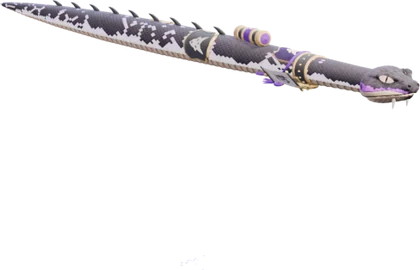
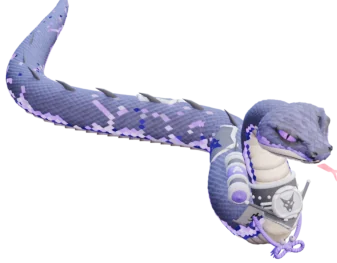
Guide: new pets, the Spirit Armor aura, snakes and dragons that coil
Every new model is in an add-on pack (no new free models):
- Necrotic Bear, Six-Eyed Spider, King Cobra, Stormcrest Hawk and Ninja Kirin:
  each its own pack, pet (shoulder, small, summoned, 20 colours) and mount.
- Spirit Armor, the first aura (new Auras category), close fit and large,
  20 colours, in the Aura Pack.
- The Umbra, Tide and Crimson Clouds move to the Cloud Mounts Pack.

The Chinese Fantasy Dragon (pet and mount) and the Ninja Serpent (pet and
mount) are shown posed from their own moves, coiled instead of a straight rod,
and turn properly. Pictures in each model's home colour.

diff --git a/docs/index.html b/docs/index.html
@@ -380,7 +380,8 @@ details.more[open] > summary::before{ content:"\25BE  "; }
       <div class="card"><h3>Mounts</h3>
         <ul class="plain">
           <li><b>Spirit Colossus</b> <span class="tag-new">new</span>: a giant winged spirit warrior of glowing crystal, sword in hand, as big as the phoenix. It walks on all fours, bounds, flies with the sword out ahead and lands on its feet with a fist slam. With its <b>Bone Form</b> and <b>Armored Form</b>, 10 colours each, in the Flying Mounts Pack.</li>
-          <li><b>Umbra Cloud</b>, <b>Tide Cloud</b> and <b>Crimson Cloud</b> <span class="tag-new">new</span>: three animated clouds to ride, of ink, water and blood. They keep moving, parked or in flight. Free with Dynamic Mounts.</li>
+          <li><b>Umbra Cloud</b>, <b>Tide Cloud</b> and <b>Crimson Cloud</b> <span class="tag-new">new</span>: three animated clouds to ride, of ink, water and blood. They keep moving, parked or in flight. In the Cloud Mounts Pack.</li>
+          <li>Ride your new pets <span class="tag-new">new</span>: the <b>Necrotic Bear</b> gallops and rears up, the <b>Six-Eyed Spider</b> scuttles on eight legs, the <b>King Cobra</b> slithers with you on its head, the <b>Stormcrest Hawk</b> flies, and the <b>Ninja Kirin</b> runs. Summon the pet, press <kbd>J</kbd>.</li>
           <li>New: the <b>Gale Fan</b>, a giant flying war fan, and the <b>Dune Disc</b>, a floating disc of sand. The broomstick, cloud and hoverboard were remade.</li>
           <li>Called flying props land on the ground: the Dune Disc, Cloud, Gale Fan and Broomstick no longer sink into it.</li>
           <li>The horses and the donkey remade: Ironclad Destrier, Elven Palfrey, Wayfarer Courser, Peddler's Donkey.</li>
@@ -393,6 +394,8 @@ details.more[open] > summary::before{ content:"\25BE  "; }
           <li>Your pet and its mount are one animal: <kbd>J</kbd> on your summoned pet, and when you get off it is right there.</li>
           <li><code>/petsummon</code> calls back a pet mount left far away.</li>
           <li>Your summoned pet stays with you, even on a High Jump.</li>
+          <li>New pets <span class="tag-new">new</span>: the <b>Necrotic Bear</b>, <b>Six-Eyed Spider</b>, <b>King Cobra</b>, <b>Stormcrest Hawk</b> and <b>Ninja Kirin</b>, each its own pack with its mount: on your shoulder, small, or summoned at full size, 20 colours.</li>
+          <li><b>Auras</b> <span class="tag-new">new</span>: a new tab in your Regalia. The <b>Spirit Armor</b> rises from the ground around you as a glowing spirit rib cage, close fit or large, 20 colours, and stays with you on a mount (Aura Pack).</li>
           <li>Ten props are free for everyone. Shops show only what is for sale.</li>
           <li><b>Every model</b> <span class="tag-new">new</span>: a picture of every mount and prop, what comes free with the scripts and what is in each add-on pack.</li>
         </ul>
@@ -406,7 +409,7 @@ details.more[open] > summary::before{ content:"\25BE  "; }
       <div class="step"><span class="n">1</span><div><h3>Earn it</h3><p>Buy it at a mount shop (walk up, press <kbd>E</kbd>), use its item, or receive it from an admin. Some mounts are free for all. Its colours come with it, unless you were given only some.</p></div></div>
       <div class="step"><span class="n">2</span><div><h3>Call it</h3><p>Press <kbd>F6</kbd> (<code>/mountvip</code>) for <b>My Mounts</b>: every mount you may ride right now. Pick a colour, then <b>Ride</b>. It comes to you; press <kbd>E</kbd> to get on. <b>Send back</b> puts it away.</p></div></div>
       <div class="step"><span class="n">3</span><div><h3>Keep it</h3><p>A VIP can press <b>Lock</b> in F6 to bind a mount from the bag to the character for good.</p></div></div>
-      <div class="step"><span class="n">4</span><div><h3>Your pet's mount</h3><p>The ninja pets, dragons, gryphon, phoenix, wolf, kitsune and golem are ridden through their pet: summon it, then press <kbd>J</kbd>.</p></div></div>
+      <div class="step"><span class="n">4</span><div><h3>Your pet's mount</h3><p>The ninja pets, dragons, gryphon, phoenix, wolf, kitsune and golem, the Necrotic Bear, Six-Eyed Spider, King Cobra, Stormcrest Hawk and Ninja Kirin are ridden through their pet: summon it, then press <kbd>J</kbd>.</p></div></div>
     </div>
     <div class="tour" data-screens="f6"></div>
   </section>
@@ -433,7 +436,7 @@ details.more[open] > summary::before{ content:"\25BE  "; }
   <section id="pets" class="chapter">
     <h2><span class="num">V</span>Props &amp; pets</h2>
     <div class="steps">
-      <div class="step"><span class="n">1</span><div><h3>Wear props</h3><p><code>/animatedprop</code> opens your <b>Regalia</b>: tails, wings, magic circles, pets and more. Equip, pick a colour, take it off. A worn prop is kept safe while you wear it.</p></div></div>
+      <div class="step"><span class="n">1</span><div><h3>Wear props</h3><p><code>/animatedprop</code> opens your <b>Regalia</b>: tails, wings, magic circles, auras, pets and more. Equip, pick a colour, take it off. A worn prop is kept safe while you wear it.</p></div></div>
       <div class="step"><span class="n">2</span><div><h3>Your pet</h3><p><code>/petmenu</code>: its moves, <b>Stay</b>, <b>Roam</b>, <b>Stop</b>. <code>/petsummon</code> calls it out at full size or sends it back to your shoulder.</p></div></div>
       <div class="step"><span class="n">3</span><div><h3>Ride your pet</h3><p>Summon it and press <kbd>J</kbd>: its mount stands where it stood. Dismount and your pet is there again, following you.</p></div></div>
       <div class="step"><span class="n">4</span><div><h3>Prop moves</h3><p><code>/apflare</code>, <code>/apswish</code>, <code>/apshake</code>, <code>/apflick</code> play a move on the prop you wear, for all to see.</p></div></div>
@@ -593,7 +596,7 @@ var TASKS = [
     ['<kbd>W</kbd> <kbd>A</kbd> <kbd>S</kbd> <kbd>D</kbd>: ride where the camera looks.','Tap <kbd>Shift</kbd>: trot. Hold <kbd>Shift</kbd>: gallop.','<kbd>Space</kbd>: leap. <kbd>S</kbd>: step back. <kbd>H</kbd>: roar.','<kbd>E</kbd> or <kbd>F</kbd>: get off.'],null,0,null,'land'],
   ['swim','player','🌊','Swim and dive','water swim dive sea dolphin orca tortoise',
     ['<kbd>W</kbd> <kbd>A</kbd> <kbd>D</kbd>: swim and turn.','<kbd>Left Ctrl</kbd>: dive. <kbd>Shift</kbd>: back to the surface.','<kbd>Space</kbd>: surge.'],null,0,'The Ninja Tortoise swims and walks on land.','water'],
-  ['pet','player','🐉','Ride my pet','pet ride j summon mount kirin dragon wolf',
+  ['pet','player','🐉','Ride my pet','pet ride j summon mount kirin dragon wolf bear spider cobra hawk',
     ['Summon your pet at full size: <code class="copyable">/petsummon</code>.','Stand next to it and press <kbd>J</kbd>: its mount stands where it stood, and you ride.','Get off: your pet is there again and follows you.'],null,0,'Your pet stays with you, even on a High Jump.'],
   ['petstay','player','🐾','Make my pet stay, roam or stop','pet stay follow roam stop menu',
     ['Type <code class="copyable">/petmenu</code>.','Choose <b>Stay</b>, <b>Roam</b> or <b>Stop</b>, or a move.'],null,0],
@@ -971,6 +974,10 @@ var MODELS = {
    "Wings to wear"
   ],
   [
+   "auras",
+   "Auras"
+  ],
+  [
    "pets",
    "Pets"
   ]
@@ -1129,42 +1136,6 @@ var MODELS = {
    "img": "img/models/sanddisc.webp",
    "src": "rkl_sanddisc",
    "spin": "img/spin/sanddisc.webp"
-  },
-  {
-   "name": "Umbra Cloud",
-   "sub": "ink & violet glow · animated",
-   "cat": "ride",
-   "where": "Free with Dynamic Mounts",
-   "free": true,
-   "script": "Dynamic Mounts",
-   "new": true,
-   "img": "img/models/umbracloud.webp",
-   "src": "rkl_umbracloud",
-   "spin": "img/spin/umbracloud.webp"
-  },
-  {
-   "name": "Tide Cloud",
-   "sub": "water · animated",
-   "cat": "ride",
-   "where": "Free with Dynamic Mounts",
-   "free": true,
-   "script": "Dynamic Mounts",
-   "new": true,
-   "img": "img/models/tidecloud.webp",
-   "src": "rkl_tidecloud",
-   "spin": "img/spin/tidecloud.webp"
-  },
-  {
-   "name": "Crimson Cloud",
-   "sub": "blood red · animated",
-   "cat": "ride",
-   "where": "Free with Dynamic Mounts",
-   "free": true,
-   "script": "Dynamic Mounts",
-   "new": true,
-   "img": "img/models/crimsoncloud.webp",
-   "src": "rkl_crimsoncloud",
-   "spin": "img/spin/crimsoncloud.webp"
   },
   {
    "name": "One-Tailed Fox",
@@ -1613,9 +1584,9 @@ var MODELS = {
    "where": "Ninja Pets Pack",
    "free": false,
    "script": "Dynamic Animated Pets & Props",
-   "img": "img/models/pet_ninjaserpent.webp",
-   "src": "rkl_pet_ninjaserpent",
-   "spin": "img/spin/pet_ninjaserpent.webp"
+   "img": "img/models/pet_ninjaserpentn.webp",
+   "src": "rkl_pet_ninjaserpentn",
+   "spin": "img/spin/pet_ninjaserpentn.webp"
   },
   {
    "name": "Ninja Slug",
@@ -1982,6 +1953,174 @@ var MODELS = {
    "img": "img/models/stonewarden.webp",
    "src": "stonewarden",
    "spin": "img/spin/stonewarden.webp"
+  },
+  {
+   "name": "Umbra Cloud",
+   "sub": "ink & violet glow · animated",
+   "cat": "ride",
+   "where": "Cloud Mounts Pack",
+   "free": false,
+   "script": "Dynamic Mounts",
+   "new": true,
+   "img": "img/models/umbracloud.webp",
+   "src": "rkl_umbracloud",
+   "spin": "img/spin/umbracloud.webp"
+  },
+  {
+   "name": "Tide Cloud",
+   "sub": "water · animated",
+   "cat": "ride",
+   "where": "Cloud Mounts Pack",
+   "free": false,
+   "script": "Dynamic Mounts",
+   "new": true,
+   "img": "img/models/tidecloud.webp",
+   "src": "rkl_tidecloud",
+   "spin": "img/spin/tidecloud.webp"
+  },
+  {
+   "name": "Crimson Cloud",
+   "sub": "blood red · animated",
+   "cat": "ride",
+   "where": "Cloud Mounts Pack",
+   "free": false,
+   "script": "Dynamic Mounts",
+   "new": true,
+   "img": "img/models/crimsoncloud.webp",
+   "src": "rkl_crimsoncloud",
+   "spin": "img/spin/crimsoncloud.webp"
+  },
+  {
+   "name": "Necrotic Bear",
+   "sub": "shoulder · small · summoned · 20 colours",
+   "cat": "pets",
+   "where": "Necrotic Bear Pack",
+   "free": false,
+   "script": "Dynamic Animated Pets & Props",
+   "new": true,
+   "img": "img/models/pet_necrobearn.webp",
+   "src": "rkl_pet_necrobearn",
+   "spin": "img/spin/pet_necrobearn.webp"
+  },
+  {
+   "name": "Necrotic Bear",
+   "sub": "mount · gallops · 20 colours",
+   "cat": "beasts",
+   "where": "Necrotic Bear Pack",
+   "free": false,
+   "script": "Dynamic Mounts",
+   "new": true,
+   "img": "img/models/pet_necrobearn.webp",
+   "src": "rkl_pet_necrobearn",
+   "spin": "img/spin/pet_necrobearn.webp"
+  },
+  {
+   "name": "Six-Eyed Spider",
+   "sub": "shoulder · small · summoned · 20 colours",
+   "cat": "pets",
+   "where": "Six-Eyed Spider Pack",
+   "free": false,
+   "script": "Dynamic Animated Pets & Props",
+   "new": true,
+   "img": "img/models/pet_sixeyespidern.webp",
+   "src": "rkl_pet_sixeyespidern",
+   "spin": "img/spin/pet_sixeyespidern.webp"
+  },
+  {
+   "name": "Six-Eyed Spider",
+   "sub": "mount · eight legs · 20 colours",
+   "cat": "beasts",
+   "where": "Six-Eyed Spider Pack",
+   "free": false,
+   "script": "Dynamic Mounts",
+   "new": true,
+   "img": "img/models/pet_sixeyespidern.webp",
+   "src": "rkl_pet_sixeyespidern",
+   "spin": "img/spin/pet_sixeyespidern.webp"
+  },
+  {
+   "name": "King Cobra",
+   "sub": "shoulder · small · summoned · 20 colours",
+   "cat": "pets",
+   "where": "King Cobra Pack",
+   "free": false,
+   "script": "Dynamic Animated Pets & Props",
+   "new": true,
+   "img": "img/models/pet_kingcobran.webp",
+   "src": "rkl_pet_kingcobran",
+   "spin": "img/spin/pet_kingcobran.webp"
+  },
+  {
+   "name": "King Cobra",
+   "sub": "mount · ride on its head · 20 colours",
+   "cat": "beasts",
+   "where": "King Cobra Pack",
+   "free": false,
+   "script": "Dynamic Mounts",
+   "new": true,
+   "img": "img/models/pet_kingcobran.webp",
+   "src": "rkl_pet_kingcobran",
+   "spin": "img/spin/pet_kingcobran.webp"
+  },
+  {
+   "name": "Stormcrest Hawk",
+   "sub": "shoulder · small · summoned · 20 colours",
+   "cat": "pets",
+   "where": "Stormcrest Hawk Pack",
+   "free": false,
+   "script": "Dynamic Animated Pets & Props",
+   "new": true,
+   "img": "img/models/pet_stormcrestn.webp",
+   "src": "rkl_pet_stormcrestn",
+   "spin": "img/spin/pet_stormcrestn.webp"
+  },
+  {
+   "name": "Stormcrest Hawk",
+   "sub": "mount · flies · 20 colours",
+   "cat": "dragons",
+   "where": "Stormcrest Hawk Pack",
+   "free": false,
+   "script": "Dynamic Mounts",
+   "new": true,
+   "img": "img/models/pet_stormcrestn.webp",
+   "src": "rkl_pet_stormcrestn",
+   "spin": "img/spin/pet_stormcrestn.webp"
+  },
+  {
+   "name": "Ninja Kirin",
+   "sub": "shoulder · small · summoned · 20 colours",
+   "cat": "pets",
+   "where": "Ninja Kirin Pack",
+   "free": false,
+   "script": "Dynamic Animated Pets & Props",
+   "new": true,
+   "img": "img/models/pet_ninjakirinn.webp",
+   "src": "rkl_pet_ninjakirinn",
+   "spin": "img/spin/pet_ninjakirinn.webp"
+  },
+  {
+   "name": "Ninja Kirin",
+   "sub": "mount · the summoned Kirin · 20 colours",
+   "cat": "beasts",
+   "where": "Ninja Kirin Pack",
+   "free": false,
+   "script": "Dynamic Mounts",
+   "new": true,
+   "img": "img/models/pet_ninjakirinn.webp",
+   "src": "rkl_pet_ninjakirinn",
+   "spin": "img/spin/pet_ninjakirinn.webp"
+  },
+  {
+   "name": "Spirit Armor",
+   "sub": "aura · close fit & large · 20 colours",
+   "cat": "auras",
+   "where": "Aura Pack",
+   "free": false,
+   "script": "Dynamic Animated Pets & Props",
+   "new": true,
+   "img": "img/models/aura_spirit.webp",
+   "src": "rkl_aura_spirit",
+   "spin": "img/spin/aura_spirit.webp"
   }
  ],
  "sheets": [

diff --git a/README.md b/README.md
@@ -29,7 +29,8 @@ Every key can be changed in *Settings › Key Bindings › FiveM*
 
 **Mounts**
 - **Spirit Colossus** *(new)*: a giant winged spirit warrior of glowing crystal, sword in hand, as big as the phoenix. It walks on all fours, bounds, flies with the sword out ahead and lands on its feet with a fist slam. With its **Bone Form** and **Armored Form**, 10 colours each, in the Flying Mounts Pack.
-- **Umbra Cloud**, **Tide Cloud** and **Crimson Cloud** *(new)*: three animated clouds to ride, of ink, water and blood. They keep moving, parked or in flight. Free with Dynamic Mounts.
+- **Umbra Cloud**, **Tide Cloud** and **Crimson Cloud** *(new)*: three animated clouds to ride, of ink, water and blood. They keep moving, parked or in flight. In the Cloud Mounts Pack.
+- Ride your new pets *(new)*: the **Necrotic Bear** gallops and rears up, the **Six-Eyed Spider** scuttles on eight legs, the **King Cobra** slithers with you on its head, the **Stormcrest Hawk** flies, and the **Ninja Kirin** runs. Summon the pet, press **J**.
 - New: the **Gale Fan**, a giant flying war fan, and the **Dune Disc**, a floating disc of sand. The broomstick, cloud and hoverboard were remade.
 - Called flying props land on the ground: the Dune Disc, Cloud, Gale Fan and Broomstick no longer sink into it.
 - The horses and the donkey remade: Ironclad Destrier, Elven Palfrey, Wayfarer Courser, Peddler's Donkey.
@@ -41,6 +42,8 @@ Every key can be changed in *Settings › Key Bindings › FiveM*
 - Your pet and its mount are one animal: **J** on your summoned pet, and when you get off it is right there.
 - `/petsummon` calls back a pet mount left far away.
 - The pet follows better on jumps, flights and Stay.
+- New pets *(new)*: the **Necrotic Bear**, **Six-Eyed Spider**, **King Cobra**, **Stormcrest Hawk** and **Ninja Kirin**, each its own pack with its mount: on your shoulder, small, or summoned at full size, 20 colours.
+- **Auras** *(new)*: a new tab in your Regalia. The **Spirit Armor** rises from the ground around you as a glowing spirit rib cage, close fit or large, 20 colours, and stays with you on a mount (Aura Pack).
 - Ten props are free for everyone. Shops show only what is for sale.
 
 ---
@@ -50,7 +53,7 @@ Every key can be changed in *Settings › Key Bindings › FiveM*
 1. **Earn it**: buy it at a mount shop (walk up, press **E**), use its item, or receive it from an admin. Some mounts are free for all. Its colours come with it, unless you were given only some.
 2. **Call it**: press **F6** (`/mountvip`) for **My Mounts**: every mount you may ride right now. Pick a colour, then **Ride**. **Send back** puts it away.
 3. **Keep it**: a VIP can press **Lock** in F6 to bind a mount from the bag to the character for good.
-4. **Your pet's mount**: the ninja pets, dragons, gryphon, phoenix, wolf, kitsune and golem are ridden through their pet: summon it, then press **J**.
+4. **Your pet's mount**: the ninja pets, dragons, gryphon, phoenix, wolf, kitsune and golem, the Necrotic Bear, Six-Eyed Spider, King Cobra, Stormcrest Hawk and Ninja Kirin are ridden through their pet: summon it, then press **J**.
 
 <p align="center"><img src="docs/img/stable-f6.png" alt="My Mounts (F6): every mount you may ride, its colours, Lock and Ride" width="420"></p>
 <p align="center"><i>F6 · My Mounts: pick a colour, then Ride. A VIP can Lock a mount from the bag.</i></p>
@@ -78,11 +81,11 @@ Screens: **F6** My Mounts · **J** ride your pet · **F7** arrange the mount UI 
 
 A picture of every mount and prop, with what comes free and what is in each add-on pack: **[Every model](https://rklgaming.github.io/mountsandanimatedprop/#mounts)** on the guide page (filter by category, free or pack, and search).
 
-**Free with Dynamic Mounts:** Blood Dragon (Crimson, Azure) · Demon, Fairy and Vampire Wings · Ironclad Destrier, Elven Palfrey, Wayfarer Courser, Peddler's Donkey · Broomstick, Cloud, Hoverboard, Gale Fan, Dune Disc · Umbra Cloud, Tide Cloud, Crimson Cloud (animated) · GTA's own Dolphin, Orca, Manta, Hammerhead, Tiger Shark, War Boar, Ox, Stag, Cougar, Panther
+**Free with Dynamic Mounts:** Blood Dragon (Crimson, Azure) · Demon, Fairy and Vampire Wings · Ironclad Destrier, Elven Palfrey, Wayfarer Courser, Peddler's Donkey · Broomstick, Cloud, Hoverboard, Gale Fan, Dune Disc · GTA's own Dolphin, Orca, Manta, Hammerhead, Tiger Shark, War Boar, Ox, Stag, Cougar, Panther
 
 **Free with Dynamic Animated Pets & Props:** One-Tailed Fox · Demon Tail · Dragon Tail · Arcane Sigil and Infernal Pyre (large and small) · Void Kitsune pet
 
-**Add-on packs:** Flying Mounts (more Blood Dragon colours, Fantasy, Chinese Fantasy and Celestial Dragons, Gryphon Boss, Fantasy Phoenix, the Spirit Colossus with its Bone and Armored Forms, Angelic and Celestial Wings) · Ninja Mounts · Fantasy Land Mounts · Fox Tails · Magic Circles I and II · Wings · Ninja Pets · Fantasy Pets
+**Add-on packs:** Flying Mounts (more Blood Dragon colours, Fantasy, Chinese Fantasy and Celestial Dragons, Gryphon Boss, Fantasy Phoenix, the Spirit Colossus with its Bone and Armored Forms, Angelic and Celestial Wings) · Ninja Mounts · Fantasy Land Mounts · Cloud Mounts (Umbra, Tide and Crimson Cloud) · Fox Tails · Magic Circles I and II · Wings · Ninja Pets · Fantasy Pets · Aura (Spirit Armor) · one pack each, pet and mount: Necrotic Bear, Six-Eyed Spider, King Cobra, Stormcrest Hawk, Ninja Kirin
 
 ### See them turn
 
@@ -99,8 +102,13 @@ A picture of every mount and prop, with what comes free and what is in each add-
 </tr><tr>
 <td align="center"><img src="docs/img/spin/spiritcolossus.webp" width="170" alt="Spirit Colossus"><br>Spirit Colossus · new</td>
 <td align="center"><img src="docs/img/spin/spiritbone.webp" width="170" alt="Spirit Colossus, Bone Form"><br>Bone Form · new</td>
-<td align="center"><img src="docs/img/spin/umbracloud.webp" width="170" alt="Umbra Cloud"><br>Umbra Cloud · free · new</td>
-<td align="center"><img src="docs/img/spin/tidecloud.webp" width="170" alt="Tide Cloud"><br>Tide Cloud · free · new</td>
+<td align="center"><img src="docs/img/spin/umbracloud.webp" width="170" alt="Umbra Cloud"><br>Umbra Cloud · new</td>
+<td align="center"><img src="docs/img/spin/tidecloud.webp" width="170" alt="Tide Cloud"><br>Tide Cloud · new</td>
+</tr><tr>
+<td align="center"><img src="docs/img/spin/pet_necrobearn.webp" width="170" alt="Necrotic Bear"><br>Necrotic Bear · new</td>
+<td align="center"><img src="docs/img/spin/pet_stormcrestn.webp" width="170" alt="Stormcrest Hawk"><br>Stormcrest Hawk · new</td>
+<td align="center"><img src="docs/img/spin/pet_chinesedragonn.webp" width="170" alt="Chinese Fantasy Dragon pet"><br>Chinese Fantasy Dragon pet</td>
+<td align="center"><img src="docs/img/spin/aura_spirit.webp" width="170" alt="Spirit Armor aura"><br>Spirit Armor aura · new</td>
 </tr></table>
 
 Every model turns on the guide page: point at it in **[Every model](https://rklgaming.github.io/mountsandanimatedprop/#mounts)**.
@@ -129,7 +137,7 @@ Every model turns on the guide page: point at it in **[Every model](https://rklg
 
 ## V · Props & pets
 
-1. **Wear props**: `/animatedprop` opens your **Regalia**: tails, wings, magic circles, pets and more. Equip, pick a colour, take it off.
+1. **Wear props**: `/animatedprop` opens your **Regalia**: tails, wings, magic circles, auras, pets and more. Equip, pick a colour, take it off.
 2. **Your pet**: `/petmenu` for its moves, **Stay**, **Roam**, **Stop**. `/petsummon` calls it out at full size or sends it back to your shoulder.
 3. **Ride your pet**: summon it and press **J**: its mount stands where it stood. Dismount and your pet is there again.
 4. **Prop moves**: `/apflare`, `/apswish`, `/apshake`, `/apflick` play a move on the prop you wear.
